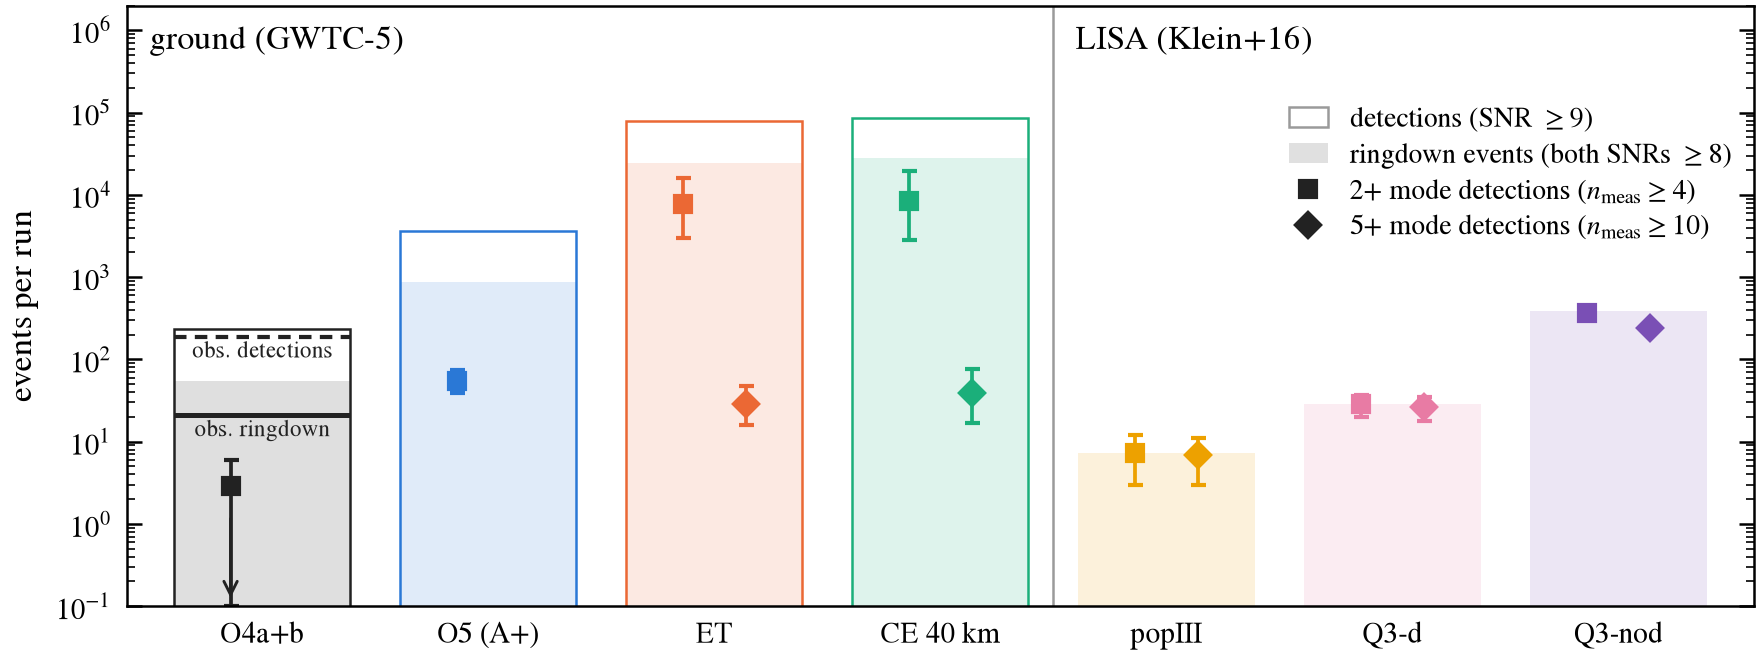
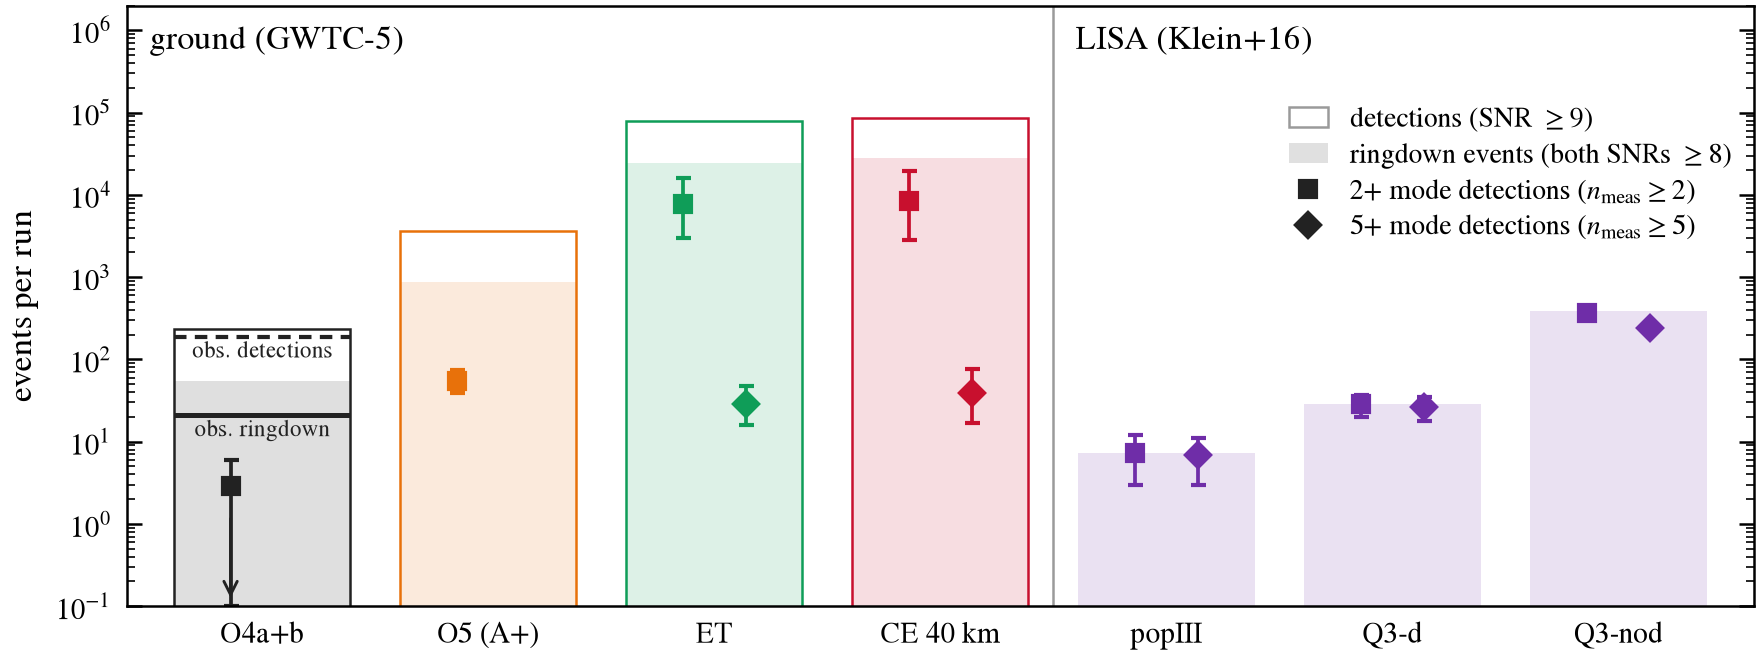
measuring-qnms: results redone at a = 1 with the money plots; counts in modes; new F9-F12

diff --git a/projects/measuring-qnms/results.md b/projects/measuring-qnms/results.md
@@ -1,10 +1,58 @@
-Findings, newest first. Unless stated, every analysis starts at $t_0 = 10\,M_f$ after the peak of $|h_{22}|$ and uses all 280 modes ($\ell \le 8$, $n \le 7$). Retired plots and superseded numbers remain in the [log](#log).
+Findings, newest first. Unless stated, every analysis starts at $t_0 = 10\,M_f$ after the peak of $|h_{22}|$, uses all 280 modes ($\ell \le 8$, $n \le 7$) and the PN × QNEF prior with untied-overtone scale $a = 1$ ([§8](#derivations)). **Counts are in modes:** the amplitudes enter as real and imaginary parts, so every mode has two real channels, and we report $n_{\rm meas} = \lfloor n_{\rm ch}/2 \rfloor$, where $n_{\rm ch} = \#\{s_k > 1\}$. A mode counts once both its quadratures are measured. Retired plots and superseded numbers remain in the [log](#log).
+
+### F12 — How many events per run measure at least $k$ modes? (unverified)
+
+<figure><a href="figs/n_ge_k.png"><img src="figs/n_ge_k.png" alt="Expected number of ringdowns per run with at least k measured modes, for O3, O4a+b, O5, ET and CE 40 km (left) and three LISA populations (right)"></a><figcaption>Expected number of events in one run with $n_{\rm meas} \ge k$ measured modes (log), against $k$ (log). The 220 alone gives $k = 1$; the dotted line marks "beyond the 220". Left: ground networks with the GWTC-5 population (Madau–Dickinson redshift history, 500 hyperposterior draws). O3 grey (0.75 yr), O4a+b black (real noise, 0.89 yr), O5 = A+ orange (2 yr), ET green (1 yr), CE 40 km red (1 yr). Lines and dots: mean over draws. Bands: 90% interval of the expected count. Dashed with open dots: fewer than 10 pool events carry the count. Right: LISA with the Klein+16 popIII (solid), Q3-d (dashed) and Q3-nod (dotted) models, 4 yr. Every count uses ringdown events (SNR ≥ 8 in both inspiral and post-inspiral, the LVK pSEOBNR selection). Choices in [§12](#derivations).</figcaption></figure>
+
+**Takeaway.**
+
+- **On the ground, each extra mode costs a factor of 3–8 in rate.** ET: 24 000 events a year with the 220, 7900 with two modes, 1500 with three, 200 with four, 29 with five.
+- **O4a+b expects about 3 two-mode events** (90%: 0–6), consistent with GW250114. A+ expects 55 in 2 yr.
+- **LISA events are few, but each measures tens of modes**: the Q3-nod curve stays flat out to 10 modes.
+
+**Reproduce.** `python tasks/t11-money-plots/S1/m5_figures.py <pools> tasks/t07-population-counts/S7/counts_gwtc5md.json <out> <date>`. It reads the t07 counts and changes no number.
+
+### F11 — How much does the PN × QNEF prior change the count? (unverified)
+
+<figure><a href="figs/prior_value.png"><img src="figs/prior_value.png" alt="Measured modes versus the 220 SNR for O4, ET, CE 40 km and LISA under a flat prior (dashed) and the PN plus QNEF prior (solid)"></a><figcaption>Measured modes $n_{\rm meas}$ against the 220's expected SNR $\rho_{220}$ (log), GW250114-like source (LISA: $2\times10^6\,M_\odot$ detector frame). Colours: O4 blue, ET green, CE 40 km red, LISA purple. Dashed: flat prior, every mode independent, with its scale set so that its expected total SNR equals the PN × QNEF prior's. Solid: PN × QNEF prior. The flat curves of O4 and CE 40 km coincide, and so do those of ET and LISA.</figcaption></figure>
+
+**Takeaway.**
+
+- **The flat prior counts 3–8× more modes at the same $\rho_{220}$.** At $\rho_{220} = 10$ it counts 6–8 modes, against 1 under PN × QNEF. At 3000 it counts 24–36, against 8–10.
+- **Under PN × QNEF every network gives nearly the same count.** Under the flat prior the count splits by how many polarizations the network sees.
+- The flat prior assumes fundamental amplitudes one to two decades above NR (F1), so NR does not support its extra modes.
+
+**Reproduce.** `python tasks/t11-money-plots/S1/m2.py <date>`, with the `mqnm` package (`mqnm.experiments.measurability.prior_value`).
+
+### F10 — Which mode amplitudes does a GW250114-like ringdown pin down? (unverified)
+
+<figure><a href="figs/measured_modes.png"><img src="figs/measured_modes.png" alt="Fraction of each mode's prior variance removed by the data, for the 16 best-measured modes, O4 and ET, from 10 M and from the peak"></a><figcaption>For each mode $j$, $1 - \Sigma/P$, the fraction of its prior variance the data remove. $\Sigma = \Sigma_{jj}$ is the posterior variance and $P = P_{jj}$ the prior variance of its amplitude, with real and imaginary parts summed; 1 means the amplitude is known exactly and 0 that nothing is learned. The 16 modes shown are the best measured in any of the four cases, ordered by ET. Blue: O4; orange: ET. Filled: $t_0 = 10\,M$; dashed outline: $t_0 = 0$. GW250114-like source at its distance, detector noise only. A bar near 0.21 means that the mode itself is not measured: a fundamental learns that much only because its prior amplitude is tied to $A_{220}$, which the data fix.</figcaption></figure>
+
+**Takeaway.**
+
+- **O4 pins down the 220 and the 221** (99% and 94% of the prior variance removed) and about 60% of the 440 and 441.
+- **ET adds the 222, 320 and 321** (59–73%) **and nearly fixes the 440 and 441** (93–97%).
+- **Starting at the peak adds high overtones**: the 227 (70%), 223 (50%) and 661 (53%) in ET. These are the uncalibrated overtones behind the modes gained at early $t_0$, and they are the ones flagged questionable in F9.
+
+**Reproduce.** `python tasks/t11-money-plots/S2/figures.py <date>`, from the posterior covariances of `tasks/t10-channel-reliability/S1`.
+
+### F9 — In which order do the modes enter as the source gets louder? (unverified)
+
+<figure><a href="figs/entry_order.png"><img src="figs/entry_order.png" alt="Histograms of the 220 SNR at which each measured mode enters, stacked by what each mode is made of, for O4, A+, ET and CE 40 km, from 10 M (top) and from the peak (bottom)"></a><figcaption>One histogram per detector (columns: O4, A+, ET, CE 40 km) and start time (top: $t_0 = 10\,M$; bottom: $t_0 = 0$). x: the 220 SNR $\rho_{220}$ at which a mode enters, meaning its second channel crosses $s > 1$, binned from 0.1 to 200. y: number of modes entering per bin. Each mode's bar is split by where its two channels point in the prior's independent factors. Black: the 220. Blue: the fundamental harmonics $(\ell, m, 0)$. Green: the calibrated $n = 1$ overtones (221, 211, 321, 331, 441, tied to NR). Yellow: the uncalibrated $n = 1$ overtones. Red: overtones $n \ge 2$. Hatched: modes into which noise-free NR strain from 434 SXS runs puts less than a quarter of the prior-claimed power (tested for O4 and ET). Dashed line: the GW250114-like source; the modes left of it are measured. For ET and CE 40 km the source ($\rho_{220} = 321$, $335$) is beyond the axis.</figcaption></figure>
+
+**Takeaway.**
+
+- **From $10\,M$ the order is the same in every detector.** First the 220 ($\rho_{220} \approx 1.7$). Then a mode made mostly of calibrated $n = 1$ overtones (15–19). Then one made mostly of the fundamental harmonics (35–40). A fourth arrives near 150–215.
+- **GW250114 measures 2 modes in O4, 3 in A+, 5 in ET and 4 in CE 40 km** from $10\,M$; from the peak, 5, 5, 11 and 8.
+- **From the peak every mode carries $n \ge 2$ overtones**, and the earliest ones (two in O4, one in ET) fail the NR power test. The prior over-claims there, which is why we quote counts from $10\,M$.
+
+**Reproduce.** `python tasks/t11-money-plots/S2/content.py` (channel make-up), then `S2/figures.py <date>`.
 
 ### F8 — How many 2+ and 5+ mode detections will each detector generation see? (unverified)
 
-<figure><a href="figs/money_ladder.png"><img src="figs/money_ladder.png" alt="Expected detections, ringdown events, and 2+ and 5+ mode detections per run for O4a+b, O5, ET, CE 40 km and three LISA populations"></a><figcaption>Events per run on a log scale. Outline bar: detections (network SNR ≥ 9). Filled bar: ringdown events (SNR ≥ 8 in both the inspiral and the post-inspiral part, the LVK's pSEOBNR selection). Markers: expected numbers of ringdown events with $n_{\rm meas} \ge 4$ (2+ mode detections, squares) and $n_{\rm meas} \ge 10$ (5+ mode detections, diamonds), with 90% intervals over population draws and Poisson scatter. A complex mode is two real channels ([§12.1](#derivations)). A marker is missing when its count is below 0.1, like O5's 5+ mode detections, which no pool event reaches. The black lines on O4a+b are the observed detections (190 BBH with FAR &lt; 1/yr) and the observed ringdown events (21 analysed with pSEOBNR). Ground: GWTC-5 BP2P with a Madau–Dickinson redshift history (draws whose rate falls after the peak). LISA: Klein+16 catalogues. Runs: O4a+b 0.891 yr of real two-detector time and real noise; O5 = LIGO A+ design curve, 2 yr; ET and CE 40 km 1 yr; LISA 4 yr. All choices are in [§12](#derivations).</figcaption></figure>
+<figure><a href="figs/money_ladder.png"><img src="figs/money_ladder.png" alt="Expected detections, ringdown events, and 2+ and 5+ mode detections per run for O4a+b, O5, ET, CE 40 km and three LISA populations"></a><figcaption>Events per run on a log scale. Outline bar: detections (network SNR ≥ 9). Filled bar: ringdown events (SNR ≥ 8 in both the inspiral and the post-inspiral part, the LVK's pSEOBNR selection). Markers: expected numbers of ringdown events with $n_{\rm meas} \ge 2$ modes (squares) and $\ge 5$ modes (diamonds), with 90% intervals over population draws and Poisson scatter. A marker is missing when its count is below 0.1, as for O5's 5+ mode detections, which no pool event reaches. The black lines on O4a+b are the observed detections (190 BBH with FAR &lt; 1/yr) and the observed ringdown events (21 analysed with pSEOBNR). Ground: GWTC-5 BP2P with a Madau–Dickinson redshift history (draws whose rate falls after the peak). LISA: Klein+16 catalogues. Runs: O4a+b 0.891 yr of real two-detector time and real noise; O5 = LIGO A+ design curve, 2 yr; ET and CE 40 km 1 yr; LISA 4 yr. All choices are in [§12](#derivations).</figcaption></figure>
 
-| run | detections (SNR ≥ 8) | ringdown events | 2+ mode ($n_{\rm meas} \ge 4$) | 5+ mode ($n_{\rm meas} \ge 10$) |
+| run | detections (SNR ≥ 8) | ringdown events | 2+ modes | 5+ modes |
 |---|---|---|---|---|
 | O4a+b, 0.891 yr | 329 [283, 377] | 54 [41, 69] | 2.9 [0, 6] | 0 (no pool event) |
 | O5 (A+), 2 yr | 4960 [3740, 6330] | 882 [734, 1037] | 55 [39, 75] | 0 (no pool event) |
@@ -17,28 +65,26 @@ Findings, newest first. Unless stated, every analysis starts at $t_0 = 10\,M_f$ 
 **Takeaway.**
 
 - **O5 should see 55 [39, 75] 2+ mode detections in 2 yr.** O4a+b expects 2.9 [0, 6], consistent with the one observed (GW250114). No ground detector before the next generation reaches five modes.
-- **ET and CE 40 km give 30–40 5+ mode detections a year**, and thousands of 2+ mode detections. The factor 5–10 width of their intervals comes from the uncertain high-redshift rate.
+- **ET and CE 40 km give 30–40 5+ mode detections a year**, and thousands of 2+ mode detections. Their intervals span a factor of 5–10 because the high-redshift rate is uncertain.
 - **LISA's heavy-seed populations measure five or more modes in almost every ringdown it sees.** Light seeds (popIII) give a handful, because their ringdowns mostly lie above the LISA band.
 - **Against observations:** O3 matches (detections 57 vs 59, ringdown events 11 vs 10, two-mode events 0.4 vs 0). O4a+b predicts 1.24× the observed detections and 2.6× the ringdown events; the excess most likely comes from the LVK's stricter O4 ringdown selection ([§12.6](#derivations)).
 
-**Reproduce.** `python tasks/t07-population-counts/S7/counts.py <pools> <GWTC-5 MD hyperposterior> gwtc5md S7 <loud pools>`, then `S7/figures.py <pools> S7/counts_gwtc5md.json S7`, with the `mqnm` package. The pools come from `S7/submit_s7.sh` and `S7/submit_loud.sh`.
+**Reproduce.** `python tasks/t07-population-counts/S7/counts.py <pools> <GWTC-5 MD hyperposterior> gwtc5md S7 <loud pools>`, then `tasks/t11-money-plots/S1/m5_figures.py <pools> S7/counts_gwtc5md.json <out> <date>`, with the `mqnm` package. The pools come from `S7/submit_s7.sh` and `S7/submit_loud.sh`.
 
-### F7 — Does the count depend on how the noise covariance is built? (unverified; to be rerun)
+### F7 — Does the count depend on how the noise covariance is built? (unverified)
 
-> **To be rerun** with the current amplitude prior. The numbers below used the earlier prior.
+We changed one choice at a time in the covariance of [§7](#derivations), for the GW250114-like source (O4, CE 40 km, ET) and a $10^6\,M_\odot$ LISA source at $z = 1$. The choices were the time step ($0.05$, $0.1$, $0.2\,M$), the PSD above its table, the frequency resolution of the ACF, the noise below $f_{\rm low}$, and a band limit at 4096 Hz. Rerun with the current prior ($a = 1$).
 
-We changed one choice at a time in the covariance of [§7](#derivations), for the GW250114-like source (O4, CE 40 km, ET) and a $10^6\,M_\odot$ LISA source at $z = 1$: the time step ($0.05$, $0.1$, $0.2\,M$), the PSD above its table, the frequency resolution of the ACF, and the noise below $f_{\rm low}$.
-
-- **No numerical choice moves $n_{\rm meas}$ by more than one channel**, at the source or at $\rho_{220} = 100$ and $1000$.
-- **The analysis bandwidth is the one choice that matters.** Cutting at 4096 Hz costs ET two channels (14 → 12), because the damped overtones have broad spectra. We keep the full Nyquist range of the $0.1\,M$ grid.
+- **No numerical choice moves the count by more than one real channel**, and none moves it by a mode. This holds at the source and at $\rho_{220} = 100$ and $1000$. At the source the channel spread is O4 4–5, CE 40 km 8–9, ET 10, LISA 21.
+- **The 4096 Hz band limit no longer matters for ET** (10 vs 10 channels). Under the earlier prior it cost ET two channels. It costs O4 and CE 40 km one channel each, which is not a mode. We keep the full Nyquist range of the $0.1\,M$ grid.
 - **The noise below $f_{\rm low}$ has no correct value.** More noise there lowers every channel strength by 1–2% per decade without converging. We hold the PSD flat there, a mildly optimistic default.
 - The covariance passes checks against white noise, direct quadrature and simulated coloured noise; a doubled covariance is rejected at more than 100σ (the control).
 
-**Reproduce.** `python tasks/t08-detector-noise/S2/sweep.py` and `S1/acf_checks.py`, with the `mqnm` package.
+**Reproduce.** `python tasks/t11-money-plots/S1/f7_sweep.py <network>` (the noise sweep of `tasks/t08-detector-noise/S2/sweep.py` at the current prior) and `tasks/t08-detector-noise/S1/acf_checks.py`, with the `mqnm` package.
 
 ### F6 — How does the count depend on the start time? A non-modal GP
 
-> **Withdrawn (2026-09-25).** This version kept in the signal only the modes NR can extract (about 40), while the goal is the maximum out of the full mode set. It found that with a GP for the non-modal content, $n_{\rm meas}$ stops growing as $t_0$ moves before 10 M. The GP is being rebuilt from 434 SXS runs ([§10](#derivations)), and the start-time study will be remade with it.
+> **Withdrawn (2026-09-25).** This version kept in the signal only the modes NR can extract (about 40), while the goal is the maximum out of the full mode set. It found that with a GP for the non-modal content, $n_{\rm meas}$ stops growing as $t_0$ moves before 10 M. The rebuilt GP (434 SXS runs, [§10](#derivations)) changed the count by at most one channel in O4 and about two in ET, so it was closed as a dead end and is not used in production. F3 and F9 give the start-time dependence without it.
 
 ### F5 — Two-mode toy model: what 0, 1 and 2 measurable channels look like
 
@@ -54,43 +100,42 @@ We changed one choice at a time in the covariance of [§7](#derivations), for th
 
 **Reproduce.** `python -m mqnm.experiments.toy_two_modes`.
 
-### F4 — Does the number of channels saturate as modes are added?
+### F4 — Does the number of modes saturate as modes are added to the model? (unverified)
 
 <figure>
-<a href="figs/saturation.png"><img src="figs/saturation.png" alt="Measurable channels versus the highest overtone (left) and the highest harmonic (right) included in the model, for three values of the 220 SNR, flat prior on top and PN plus QNEF prior below"></a>
-<figcaption>$n_{\rm meas}$ (real channels) for nested mode sets: left, overtones $n \le n_{\max}$ with all $\ell \le 8$; right, harmonics $\ell \le \ell_{\max}$ with all $n \le 7$. GW250114-like source (equal mass, $\chi_f = 0.686$, $\iota = 0.78$), CE 40 km, from $t_0 = 10\,M_f$. Shades: $\rho_{220} = 30, 300, 3000$. Top: flat prior, with its scale fixed so that the full model has the same expected total SNR as the PN + QNEF prior. Bottom: PN + QNEF prior.</figcaption>
+<a href="figs/saturation.png"><img src="figs/saturation.png" alt="Measured modes versus the highest overtone (left) and the highest harmonic (right) included in the model, for three values of the 220 SNR, flat prior on top and PN plus QNEF prior below"></a>
+<figcaption>Measured modes $n_{\rm meas}$ for nested mode sets: left, overtones $n \le n_{\max}$ with all $\ell \le 8$; right, harmonics $\ell \le \ell_{\max}$ with all $n \le 7$. GW250114-like source (equal mass, $\chi_f = 0.686$, $\iota = 0.78$), CE 40 km, from $t_0 = 10\,M_f$. Light to dark blue: $\rho_{220} = 30, 300, 3000$. Top: flat prior, with its scale fixed so that the full model has the same expected total SNR as the PN × QNEF prior. Bottom: PN × QNEF prior.</figcaption>
 </figure>
 
 **Takeaway.**
 
-- **Overtones saturate early:** with the PN + QNEF prior the count stops at $n_{\max} = 1$–2 (one more channel at $n_{\max} = 4$ for $\rho_{220} = 300$). From $10\,M$ the higher overtones have decayed below reach.
-- **Harmonics saturate with the PN + QNEF prior** (by $\ell_{\max} = 2$ at $\rho_{220} = 30$, by 6 at 3000), **but grow linearly without limit under a flat prior.** Saturation comes from the physical amplitude hierarchy, not from the noise.
+- **Overtones saturate early:** with the PN × QNEF prior the count stops at $n_{\max} = 1$ for $\rho_{220} = 30$ and 300 (2 and 4 modes) and at $n_{\max} = 2$ for 3000 (8 modes). From $10\,M$ the higher overtones have decayed below reach.
+- **Harmonics saturate with the PN × QNEF prior** (by $\ell_{\max} = 2$ at $\rho_{220} = 30$, 4 at 300, 6 at 3000), **but grow without limit under a flat prior** (2 → 9 modes at $\rho_{220} = 30$, 4 → 24 at 3000). Saturation comes from the physical amplitude hierarchy, not from the noise.
 
 **Reproduce.** `python -m mqnm.experiments.saturation`.
 
-### F3 — How many channels can be measured? Per detector, vs SNR and redshift
+### F3 — How many modes can be measured? Per detector, vs SNR, start time and redshift (unverified)
 
 <figure>
-<a href="figs/measurability.png"><img src="figs/measurability.png" alt="Measurable channels versus the 220 SNR and versus redshift for O4, A+, ET, Cosmic Explorer and LISA, flat prior on top and PN plus QNEF prior below"></a>
-<figcaption>$n_{\rm meas}$ (real channels; each complex mode amplitude has two, so the 220 alone counts as 2) from $t_0 = 10\,M_f$, every mode $\ell \le 8$, $n \le 7$. (a, d) Against the 220's expected optimal SNR $\rho_{220}$, for the GW250114-like source (LISA: $10^6\,M_\odot$ at $z = 1$). (b, e) The GW250114-like source moved in redshift; the grey line is GW250114 ($z = 0.086$). (c, f) LISA remnants of $10^5$ (dotted), $10^6$ (solid) and $10^7\,M_\odot$ (dashed) against their redshift. Top: flat prior with the same expected total SNR as the PN + QNEF prior. Bottom: PN + QNEF prior. In (a, d) CE 40 km (dashed) coincides with O4, and LISA (dashed) with ET: the count depends only on $\rho_{220}$ and on whether one or both polarizations are seen. Networks: O4 and A+ as two co-aligned LIGO detectors (one polarization); ET as a triangle of three 60° interferometers; CE as a single L; LISA as the A and E channels. The source is overhead, $\psi = 0$.</figcaption>
+<a href="figs/measurability.png"><img src="figs/measurability.png" alt="Measured modes versus the 220 SNR for four start times, and versus redshift for ground detectors and LISA"></a>
+<figcaption>Measured modes $n_{\rm meas}$, PN × QNEF prior. (a–d) Against the 220's expected SNR $\rho_{220}$ on the default window from $10\,M$, so one $\rho_{220}$ is the same source at the same distance in every panel, for start times $t_0 = 0, 5, 10, 15\,M$. O4 blue, ET green, CE 40 km red (dashed), LISA purple (dashed, $2\times10^6\,M_\odot$ detector frame); the dashed curves lie on the O4 and ET ones. (e) The GW250114-like source moved in redshift, from $10\,M$: O4 blue, A+ orange, ET green, CE 20 km ochre, CE 40 km red; the grey line is GW250114 ($z = 0.086$). (f) LISA remnants of $10^5$ (dotted), $10^6$ (solid) and $10^7\,M_\odot$ (dashed) against redshift. Networks: O4 and A+ as two co-aligned LIGO detectors (one polarization); ET as a triangle of three 60° interferometers; CE as a single L; LISA as the A and E channels. The source is overhead, $\psi = 0$.</figcaption>
 </figure>
 
 **Takeaway.**
 
-- **GW250114 at its distance, PN + QNEF prior:** O4 5, A+ 6, CE 20 km 8, CE 40 km 9, ET 12 real channels: the 220 plus 3 (O4) to 10 (ET).
-- **Growth with SNR is roughly logarithmic:** 2 channels at $\rho_{220} = 10$, 6 at 100, 12–16 at 1000, 22–28 at $10^4$. Networks that see both polarizations (ET, LISA) pull ahead above $\rho_{220} \approx 500$.
-- **Third-generation detectors keep 4–6 channels out to $z \sim 5$**; O4 and A+ drop to the 220 alone by $z \approx 1$. **LISA** keeps about 20 channels for a $10^6\,M_\odot$ remnant from $z \approx 1$ to 10.
-- **At equal total SNR, a flat prior gives 3–5× more channels** (O4 19, ET 56). The count depends strongly on what we know about the amplitudes.
+- **GW250114 at its distance, from $10\,M$:** O4 2, A+ 3, CE 20 km 4, CE 40 km 4, ET 5 modes. Starting at $t_0 = 0, 5, 10, 15\,M$: O4 5, 3, 2, 1; ET 11, 7, 5, 3. Below $10\,M$ the gains rest on overtones that NR does not support near the peak (F9, F10).
+- **Growth with SNR is roughly logarithmic:** from $10\,M$, 1 mode at $\rho_{220} = 10$, 2 at 30, 3 at 100, 4–5 at 300, 6–7 at 1000, 8–10 at 3000. At fixed $\rho_{220}$ the detectors agree to within one mode up to $\rho_{220} \approx 100$.
+- **Third-generation detectors keep at least 2 modes out to $z = 5$**; O4 and A+ drop to the 220 alone by $z \approx 0.15$ and $0.3$. **LISA** keeps about 10 modes for a $10^6\,M_\odot$ remnant from $z \approx 1$ to 10.
 
-**Caveats.** Overhead source, co-located detectors, untied-overtone scale $a = 1.30$ (now 1, [§8](#derivations)). The prior under-covers (3,2) and (4,3) and over-covers (3,3) (F1). Channels are combinations of amplitudes, not named modes.
+**Caveats.** Overhead source, co-located detectors. The prior under-covers (3,2) and (4,3) and over-covers (3,3) (F1).
 
-**Reproduce.** `python -m mqnm.experiments.measurability`.
+**Reproduce.** `python tasks/t11-money-plots/S1/m2.py <date>`, with the `mqnm` package (`mqnm.experiments.measurability`).
 
 ### F2 — A GW250114-like ringdown against the detector sensitivities
 
 <figure>
 <a href="figs/sensitivity_overlay.png"><img src="figs/sensitivity_overlay.png" alt="Characteristic strain of the real SXS:BBH:0180 ringdown and of QNEF prior draws against O4, A+, ET and Cosmic Explorer (left) and against LISA for a million-solar-mass remnant at redshift 1 (right), from 10 M after the peak"></a>
-<figcaption>Characteristic strain $2f\,|\tilde h_+(f)|$ of the ringdown against the noise amplitude $\sqrt{f S_n(f)}$ (Moore, Cole &amp; Berry convention: both dimensionless, and $\rho^2 = \int (2f|\tilde h|/\sqrt{fS_n})^2\,d\ln f$), from $t_0 = 10\,M_f$. Black: the SXS:BBH:0180 strain (equal mass, non-spinning, $\chi_f = 0.686$; all harmonics $\ell \le 8$, $m \ne 0$; $\iota = 0.78$). Grey: 5–95% band of 200 draws of every mode ($\ell \le 8$, $n \le 7$) from the PN + QNEF prior conditioned on the fitted 220. Panel titles give the detector-frame remnant mass, spin and luminosity distance. (a) GW250114 scaling. (b) $M_f = 10^6\,M_\odot$ in the source frame at $z = 1$, one LISA channel. $h_+$ for $F_+ = 1$; ET and LISA (60° interferometers) at their best orientation. The signal curves stop at $2.5f_{220}$ (625 Hz; 0.021 Hz for LISA): above it the spectrum is the window edge, not ringdown content. Optimal single-detector SNR of the NR strain from $10\,M$ (full band): O4 22, A+ 41, ET 187, CE 20 km 223, CE 40 km 326, LISA 2789.</figcaption>
+<figcaption>Characteristic strain $2f\,|\tilde h_+(f)|$ of the ringdown against the noise amplitude $\sqrt{f S_n(f)}$ (Moore, Cole &amp; Berry convention: both dimensionless, and $\rho^2 = \int (2f|\tilde h|/\sqrt{fS_n})^2\,d\ln f$), from $t_0 = 10\,M_f$. Black: the SXS:BBH:0180 strain (equal mass, non-spinning, $\chi_f = 0.686$; all harmonics $\ell \le 8$, $m \ne 0$; $\iota = 0.78$). Grey: 5–95% band of 200 draws of every mode ($\ell \le 8$, $n \le 7$) from the PN × QNEF prior conditioned on the fitted 220. Noise curves: O4 blue, A+ orange, ET green, CE 20 km ochre, CE 40 km red, LISA purple. Panel titles give the detector-frame remnant mass, spin and luminosity distance. (a) GW250114 scaling. (b) $M_f = 10^6\,M_\odot$ in the source frame at $z = 1$, one LISA channel. $h_+$ for $F_+ = 1$; ET and LISA (60° interferometers) at their best orientation. The signal curves stop at $2.5f_{220}$ (625 Hz; 0.021 Hz for LISA): above it the spectrum is the window edge, not ringdown content. Optimal single-detector SNR of the NR strain from $10\,M$ (full band): O4 22, A+ 41, ET 187, CE 20 km 223, CE 40 km 326, LISA 2789.</figcaption>
 </figure>
 
 **Takeaway.**
@@ -105,13 +150,13 @@ We changed one choice at a time in the covariance of [§7](#derivations), for th
 ### F1 — Do the calibrated priors cover NR?
 
 <figure>
-<a href="figs/prior_vs_nr.png"><img src="figs/prior_vs_nr.png" alt="Prior-predictive amplitude ratios per mode, modulus and phase, for the PN plus QNEF prior and the flat prior, against NR on held-out runs"></a>
-<figcaption>Amplitude ratios $C_j/C_{220}$ at the merger, (a) modulus and (b) phase. For each SXS run the prior is conditioned on that run's own 220 and predicts the ratio; violins pool these predictions over runs. Blue: the PN + QNEF prior (1PN at the run's own $v_{\rm peak}$, four calibrated numbers, [derivations §8](#derivations)). Orange: the flat prior (every mode independent with the 220's scale; its phase is uniform and not shown). Dots: NR (jaxqualin). Only the 150 runs held out of the calibration are used, so the prior never saw these data.</figcaption>
+<a href="figs/prior_vs_nr.png"><img src="figs/prior_vs_nr.png" alt="Prior-predictive amplitude ratios per mode, modulus and phase, for the PN plus QNEF prior and the flat prior, against NR"></a>
+<figcaption>Amplitude ratios $C_j/C_{220}$ at the merger, (a) modulus and (b) phase. For each SXS run the prior is conditioned on that run's own 220 and predicts the ratio; violins pool these predictions over runs. Blue: the PN × QNEF prior (1PN at the run's own $v_{\rm peak}$, four calibrated numbers, [derivations §8](#derivations)). Orange: the flat prior (every mode independent with the 220's scale; its phase is uniform and not shown). Dots: NR (jaxqualin fits).</figcaption>
 </figure>
 
 **Takeaway.**
 
-- **The PN + QNEF prior tracks NR mode by mode.** 1σ coverage of $|C_j/C_{220}|$ (target 68%): 221 87%, 440 70%, 550 74%, 660 68%, 211 62%, 210 59%. The flat prior covers 0–2%.
+- **The PN × QNEF prior tracks NR mode by mode.** 1σ coverage of $|C_j/C_{220}|$ (target 68%): 221 87%, 440 70%, 550 74%, 660 68%, 211 62%, 210 59%. The flat prior covers 0–2%.
 - **One pooled error $e$ is too wide for (3,3)** (99%) **and too narrow for (3,2) and (4,3)** (41%, 37%). NR's (3,3) sits at 1.9× the 1PN prediction ([§8](#derivations)).
 - **Phases:** the 221 is tight and matches NR. The 210, 211 and 331 sit 0.5–1 rad off the prior's mean; for the 320, 440 and 660, NR splits into two groups the prior does not resolve.
 

diff --git a/projects/measuring-qnms/overview.md b/projects/measuring-qnms/overview.md
@@ -20,21 +20,22 @@ $$
 \tilde Z = \Sigma_n^{-1/2}\, Z\, \Sigma_A^{1/2} = U\,\mathrm{diag}(s_i)\,W^\dagger .
 $$
 
-Each right singular vector is a *channel*: a fixed linear combination of mode amplitudes. We call a channel **measurable** when $s_i > 1$, meaning the data reduce its variance by more than a factor of two relative to the prior. See [derivations](#derivations) for why that threshold is natural. So the headline number is
+Each right singular vector is a *channel*: a fixed linear combination of mode amplitudes. We call a channel **measurable** when $s_i > 1$, meaning the data reduce its variance by more than a factor of two relative to the prior. See [derivations](#derivations) for why that threshold is natural. The amplitudes enter as real and imaginary parts, so each mode has two real channels, and the headline number counts modes, a mode counting once both its quadratures are measured:
 
 $$
-n_{\rm meas} = \#\{\, i : s_i > 1 \,\}.
+n_{\rm meas} = \left\lfloor \tfrac12\, \#\{\, i : s_i > 1 \,\} \right\rfloor .
 $$
 
 With white noise and a flat prior, $s_i = \rho\,\sigma_i(Z)$ with $\rho = \sigma_A/\sigma_n$. The problem is then just the singular spectrum of a Vandermonde-type matrix, cut at $1/\rho$.
 
-## Where things stand (2026-09-29)
+## Where things stand (2026-10-05)
 
-- **Baseline done (F1–F5).** From $10\,M_f$ after the peak, with the PN × QNEF prior calibrated on NR: the GW250114-like source at its distance gives O4 5, A+ 6, CE 20 km 8, CE 40 km 9 and ET 12 measurable real channels. Overtones saturate at $n_{\max} = 2$; harmonics saturate under PN + QNEF and never under the flat prior.
-- **Detector noise checked (F7).** No numerical choice in the covariance moves $n_{\rm meas}$ by more than one channel; the one choice that matters is the analysis bandwidth.
-- **Amplitude prior settled.** 1PN × QNEF at each binary's own $v_{\rm peak}$, with three calibrated numbers ($e, f, \kappa$) and the untied-overtone scale set to $a = 1$ (NR bounds it at 0.38; it matters only for starts before about 10 M). The hyperboloidal-slice GP is dropped ([§8](#derivations)).
-- **Non-modal noise.** A GP for what the QNM model misses, trained on 434 SXS runs. The base kernel ranks first among the variants tried but under-covers before 20 M; a single kernel from $t = 0$ is being fitted ([§10](#derivations)). It becomes the top rung of the noise ladder.
-- **Populations.** Channel counts become expected numbers of events per detector over the GWTC-5 and Klein+16 populations ([F8](#results)): O5 gives about 55 2+ mode detections in 2 yr, ET and CE 30–40 5+ mode detections a year. O3 is matched; O4 ringdown events are 2.6× high.
+- **Mode counts (F3, F9).** From $10\,M_f$ after the peak, with the PN × QNEF prior calibrated on NR, the GW250114-like source at its distance measures O4 2, A+ 3, CE 20 km 4, CE 40 km 4 and ET 5 modes. In every detector the 220 enters first, then a mode made mostly of the calibrated $n = 1$ overtones, then one made mostly of the fundamental harmonics.
+- **Which amplitudes are learned (F10).** O4 pins down the 220 and 221 and about 60% of the 440 and 441; ET adds the 222, 320 and 321. Starting earlier than $10\,M$ adds modes, but they rest on overtones that NR does not support near the peak.
+- **Saturation and the prior (F4, F11).** Under PN × QNEF the count saturates at $n_{\max} = 2$ and $\ell_{\max} = 6$. A flat prior counts 3–8× more modes and never saturates.
+- **Detector noise checked (F7).** No numerical choice in the covariance moves the count by a mode.
+- **Populations (F8, F12).** O5 gives about 55 2+ mode detections in 2 yr, and ET and CE 30–40 5+ mode detections a year. O3 is matched; O4 ringdown events are 2.6× high.
+- **Dropped.** The non-modal GP changed the count by at most about one mode and is not used ([§10](#derivations)).
 
 ## Open threads
 
@@ -43,5 +44,4 @@ With white noise and a flat prior, $s_i = \rho\,\sigma_i(Z)$ with $\rho = \sigma
 - Does $n_{\rm meas}$ depend on $\rho_{220}$ alone, or on the shape of the detector's sensitivity? To test on the 3G curves, including the CE 20 km post-merger tuning.
 - LISA with the exact TDI response for $10^5$–$10^7\,M_\odot$, where the smooth approximation we use is off by up to 30%.
 - Pin down the $r_{44}$ PN coefficient: $(8/9)\sqrt{5/7}$ or $(8/9)\sqrt{10/7}$.
-- Map channels back to modes: how much of each channel's weight sits on which $(\ell, m, n)$.
 - Realistic sky position and antenna patterns (H1/L1 for GW250114).

diff --git a/projects/measuring-qnms/log.md b/projects/measuring-qnms/log.md
@@ -1,5 +1,13 @@
 Newest first. One entry per working session: what was done, what was learned, and what went wrong.
 
+### 2026-10-05 — results redone at $a = 1$; counts now in modes
+
+- **Counts are now in modes**, $n_{\rm meas} = \lfloor n_{\rm ch}/2 \rfloor$: each mode amplitude has two real channels, and a mode counts once both are measured. Earlier entries and figures counted real channels. The channel counts themselves did not change. GW250114 from $10\,M$: O4 4 → 2 modes, ET 10 → 5, CE 40 km 9 → 4.
+- F1–F4, F7 and F8 redone at the current prior ($a = 1$, was 1.30). The old F3 numbers (O4 5, CE 40 km 11, ET 14 channels) were at $a = 1.30$. F3 now also shows the start times $t_0 = 0, 5, 10, 15\,M$.
+- F7 rerun: the claim that a 4096 Hz band limit costs ET two channels no longer holds (10 vs 10). It costs O4 and CE 40 km one channel each, which is not a mode.
+- New results F9 (the order in which modes enter, and what each is made of), F10 (which amplitudes the data pin down), F11 (flat vs PN × QNEF prior) and F12 (events per run with at least $k$ modes).
+- New colours, one per detector, shared by every figure.
+
 ### 2026-09-29 — page compacted and re-synced
 
 - Derivations shortened by about half. §10 now describes the current GP training (434 SXS runs, the base kernel, its early under-coverage); the first GP's calibration is marked superseded. §8 gives the adopted numbers once, including $a = 1$ and the NR bound $a \le 0.38$. §12's population choices are unchanged.
